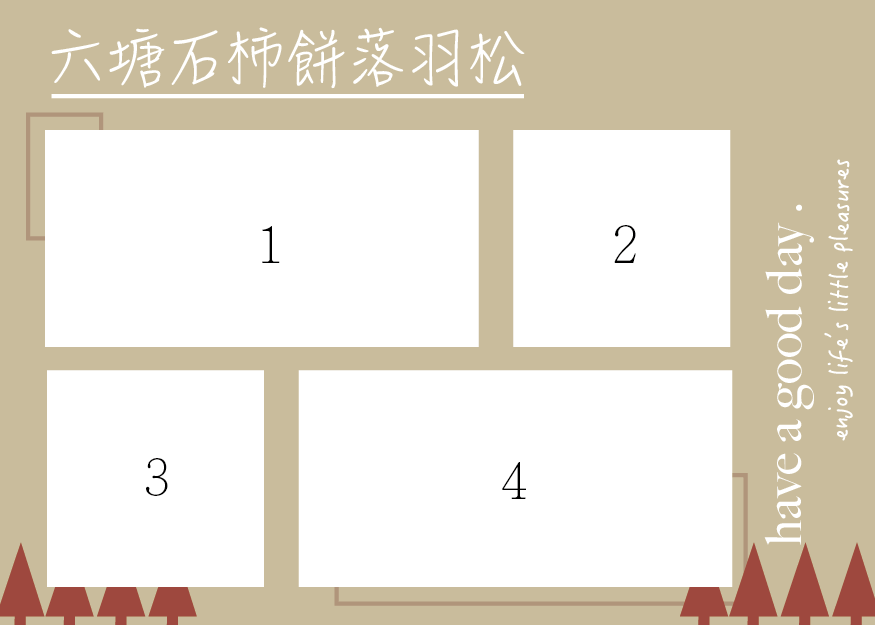
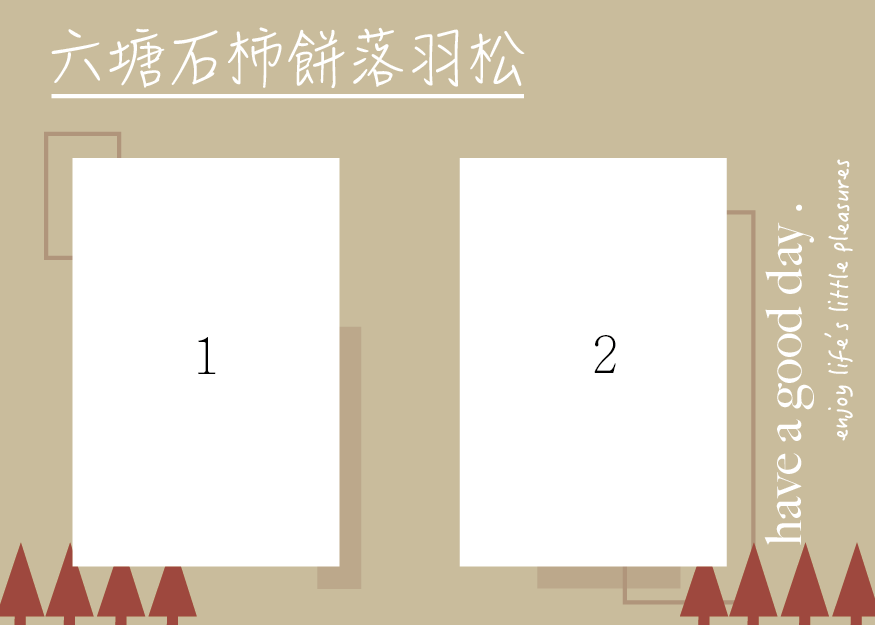
# 新版圖片模板座標、長寬上架 # 正式上架圖片模板、旅Go圖文選單、周邊店家

diff --git a/travel-go-img-maker/src/views/Home.vue b/travel-go-img-maker/src/views/Home.vue
@@ -118,6 +118,16 @@
             </div>
           </div>
         </div>
+        {{
+          routeTemplate[checkState.styleChecked][
+            checkState.routeTemplateChecked
+          ].aspectRatio[checkState.uploadImgIndex].x
+        }}
+        {{
+          routeTemplate[checkState.styleChecked][
+            checkState.routeTemplateChecked
+          ].aspectRatio[checkState.uploadImgIndex].y
+        }}
       </div>
       <div>
         <van-dialog
@@ -143,7 +153,14 @@
               :viewMode="3"
               :autoCropArea="0.5"
               :src="checkState.imgSrc"
-              :aspectRatio="1 / 1"
+              :aspectRatio="
+                routeTemplate[checkState.styleChecked][
+                  checkState.routeTemplateChecked
+                ].aspectRatio[checkState.uploadImgIndex].x /
+                  routeTemplate[checkState.styleChecked][
+                    checkState.routeTemplateChecked
+                  ].aspectRatio[checkState.uploadImgIndex].y
+              "
               alt="Source Image"
             ></vue-cropper>
           </div>
@@ -191,7 +208,7 @@
           <van-button
             plain
             type="primary"
-            style="border-radius: 5px"
+            style="border-radius: 5px; background-color: rgb(21, 175, 149); color: white; border-color: rgb(21, 175, 149); font-weight: bold;"
             size="small"
             @click="uploadImg"
             >確定送出</van-button
@@ -217,8 +234,9 @@ import {
   getDownloadURL,
 } from "firebase/storage";
 import liff from "@line/liff";
+import { Toast } from "vant";
 // import imageToBase64 from "image-to-base64/browser";
-import { ref, watch } from "vue";
+import { ref, watch, onMounted } from "vue";
 export default {
   name: "Home",
   components: {
@@ -228,6 +246,7 @@ export default {
   methods: {
     setImage(e) {
       try {
+        // console.log(247, this.$refs.cropper);
         const file = e.target.files[0];
         console.log(file);
         if (!file.type.includes("image/")) {
@@ -237,6 +256,7 @@ export default {
         if (typeof FileReader === "function") {
           const reader = new FileReader();
           reader.onload = (event) => {
+            console.log(259, this.$refs.cropper.destroy());
             this.checkState.imgSrc = event.target.result;
             // rebuild cropperjs with the updated source
             this.$refs.cropper.replace(event.target.result).setData({
@@ -247,8 +267,7 @@ export default {
                 this.checkState.routeTemplateChecked
               ].cropImgData[this.checkState.uploadImgIndex].height,
             });
-
-            console.log(this.$refs.cropper);
+            // console.log(258, this.$refs.cropper.destroy());
           };
           reader.readAsDataURL(file);
         } else {
@@ -271,18 +290,6 @@ export default {
             height: this.routeTemplate[this.checkState.styleChecked][
               this.checkState.routeTemplateChecked
             ].cropImgData[this.checkState.uploadImgIndex].height,
-            // minWidth: this.routeTemplate[this.checkState.styleChecked][
-            //   this.checkState.routeTemplateChecked
-            // ].cropImgData[this.checkState.uploadImgIndex].width,
-            // minHeight: this.routeTemplate[this.checkState.styleChecked][
-            //   this.checkState.routeTemplateChecked
-            // ].cropImgData[this.checkState.uploadImgIndex].height,
-            // maxWidth: this.routeTemplate[this.checkState.styleChecked][
-            //   this.checkState.routeTemplateChecked
-            // ].cropImgData[this.checkState.uploadImgIndex].width,
-            // maxHeight: this.routeTemplate[this.checkState.styleChecked][
-            //   this.checkState.routeTemplateChecked
-            // ].cropImgData[this.checkState.uploadImgIndex].height,
           })
           .toDataURL();
         const previewImg = document.getElementById("previewImg");
@@ -290,14 +297,6 @@ export default {
         document.getElementById(
           `imgUpload${this.checkState.uploadImgIndex}`
         ).src = this.checkState.cropImg;
-        // console.log(
-        //   this.routeTemplate[this.checkState.styleChecked][
-        //     this.checkState.routeTemplateChecked
-        //   ].cropImgData[this.checkState.uploadImgIndex].width,
-        //   this.routeTemplate[this.checkState.styleChecked][
-        //     this.checkState.routeTemplateChecked
-        //   ].cropImgData[this.checkState.uploadImgIndex].height
-        // );
         if (this.checkState.fileList == "") {
           this.checkState.fileList.push({
             content: this.checkState.cropImg,
@@ -366,30 +365,34 @@ export default {
       [
         {
           src: "../assets/PopularRoute.png",
-          limit: 4,
+          limit: 2,
           cropImgData: [
-            { width: 1165, height: 587 },
-            { width: 599, height: 587 },
-            { width: 599, height: 586 },
-            { width: 1166, height: 586 },
+            { width: 265, height: 407 },
+            { width: 265, height: 407 },
           ],
           coordinate: [
-            { x: 115, y: 342 },
-            { x: 1358, y: 342 },
-            { x: 115, y: 983 },
-            { x: 791, y: 983 },
+            { x: 73, y: 158 },
+            { x: 460, y: 158 },
+          ],
+          aspectRatio: [
+            { x: 2, y: 3 },
+            { x: 2, y: 3 },
           ],
         },
         {
           src: "../assets/PopularRoute1.png",
           limit: 2,
           cropImgData: [
-            { width: 620, height: 876 },
-            { width: 621, height: 876 },
+            { width: 224, height: 336 },
+            { width: 224, height: 336 },
           ],
           coordinate: [
-            { x: 150, y: 635 },
-            { x: 980, y: 470 },
+            { x: 60, y: 234 },
+            { x: 372, y: 172 },
+          ],
+          aspectRatio: [
+            { x: 2, y: 3 },
+            { x: 2, y: 3 },
           ],
         },
       ],
@@ -398,24 +401,32 @@ export default {
           src: "../assets/StreeRoute.png",
           limit: 2,
           cropImgData: [
-            { width: 896, height: 1666 },
-            { width: 1276, height: 654 },
+            { width: 265, height: 398 },
+            { width: 265, height: 398 },
           ],
           coordinate: [
-            { x: 0, y: 0 },
-            { x: 963, y: 79 },
+            { x: 128, y: 113 },
+            { x: 468, y: 113 },
+          ],
+          aspectRatio: [
+            { x: 2, y: 3 },
+            { x: 2, y: 3 },
           ],
         },
         {
           src: "../assets/StreeRoute1.png",
           limit: 2,
           cropImgData: [
-            { width: 911, height: 711 },
-            { width: 912, height: 711 },
+            { width: 265, height: 399 },
+            { width: 265, height: 399 },
           ],
           coordinate: [
-            { x: 138, y: 259 },
-            { x: 1270, y: 787 },
+            { x: 86, y: 81 },
+            { x: 533, y: 81 },
+          ],
+          aspectRatio: [
+            { x: 2, y: 3 },
+            { x: 2, y: 3 },
           ],
         },
       ],
@@ -424,12 +435,66 @@ export default {
           src: "../assets/FestivalRoute.png",
           limit: 2,
           cropImgData: [
-            { width: 794, height: 1129 },
-            { width: 795, height: 1129 },
+            { width: 265, height: 399 },
+            { width: 265, height: 399 },
           ],
           coordinate: [
-            { x: 138, y: 152 },
-            { x: 1394, y: 390 },
+            { x: 52, y: 56 },
+            { x: 555, y: 182 },
+          ],
+          aspectRatio: [
+            { x: 2, y: 3 },
+            { x: 2, y: 3 },
+          ],
+        },
+      ],
+      [
+        {
+          src: "../assets/FoodRoute.png",
+          limit: 2,
+          cropImgData: [
+            { width: 265, height: 399 },
+            { width: 266, height: 398 },
+          ],
+          coordinate: [
+            { x: 104, y: 78 },
+            { x: 479, y: 155 },
+          ],
+          aspectRatio: [
+            { x: 2, y: 3 },
+            { x: 2, y: 3 },
+          ],
+        },
+        {
+          src: "../assets/FoodRoute1.png",
+          limit: 2,
+          cropImgData: [
+            { width: 265, height: 406 },
+            { width: 265, height: 399 },
+          ],
+          coordinate: [
+            { x: 96, y: 96 },
+            { x: 431, y: 177 },
+          ],
+          aspectRatio: [
+            { x: 2, y: 3 },
+            { x: 2, y: 3 },
+          ],
+        },
+        {
+          src: "../assets/FoodRoute2.png",
+          limit: 2,
+          cropImgData: [
+            { width: 265, height: 407 },
+            { width: 265, height: 399 },
+          ],
+          coordinate: [
+            { x: 239, y: 45 },
+            { x: 556, y: 154 },
+          ],
+          aspectRatio: [
+            { x: 2, y: 3 },
+            { x: 2, y: 3 },
           ],
         },
       ],
@@ -456,14 +521,15 @@ export default {
             checkState.value.routeTemplateChecked
           ].src,
           async function(dataUrl) {
-            if (
-              checkState.value.styleChecked == "2" &&
-              checkState.value.routeTemplateChecked == "0"
-            ) {
-              imgListMap.push(dataUrl);
-            } else {
-              imgListMap.unshift(dataUrl);
-            }
+            // if (
+            //   checkState.value.styleChecked == "2" &&
+            //   checkState.value.routeTemplateChecked == "0"
+            // ) {
+            //   imgListMap.push(dataUrl);
+            // } else {
+            //   imgListMap.unshift(dataUrl);
+            // }
+            imgListMap.unshift(dataUrl);
             // 此时可以自行将文件上传至服务器
             await mergeImages(imgListMap).then(
               (b64) => (document.querySelector(".showImg").src = b64)
@@ -513,6 +579,11 @@ export default {
         storage,
         `img-maker/${new Date().toISOString()}.png`
       );
+      Toast.loading({
+        message: "製作圖片中...",
+        forbidClick: true,
+        loadingType: "spinner",
+      });
       await uploadString(
         StorageRef,
         document.querySelector(".showImg").src,

diff --git a/travel-go-img-maker/public/index.html b/travel-go-img-maker/public/index.html
@@ -5,7 +5,7 @@
     <meta http-equiv="X-UA-Compatible" content="IE=edge" />
     <meta
       name="viewport"
-      content="width=device-width,initial-scale=1.0, viewport-fit=cover"
+      content="width=device-width, initial-scale=1.0, maximum-scale=1.0, minimum-scale=1.0, user-scalable=no, target-densitydpi=device-dpi,viewport-fit=cover"
     />
     <link rel="icon" href="<%= BASE_URL %>favicon.ico" />
     <script src="https://cdnjs.cloudflare.com/ajax/libs/animejs/2.0.2/anime.min.js"></script>
